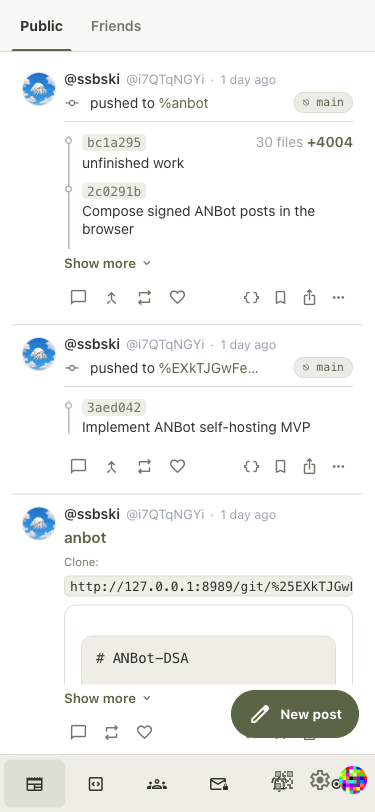
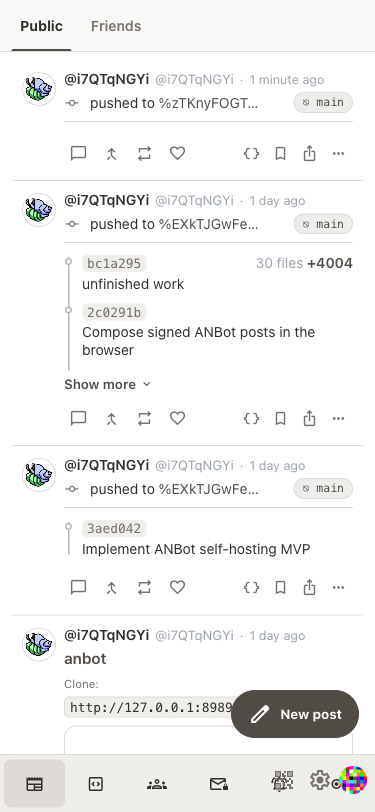
Use warm neutral colors for the Decent workspace

diff --git a/decent/src/decent2-style.css b/decent/src/decent2-style.css
@@ -5,18 +5,18 @@
 :root[data-ssbpro-theme="light"] {
   color-scheme: light;
   /* palette consumed by base.css */
-  --sky-bg: #f8f8f5;
+  --sky-bg: #faf9f7;
   --sky-surface: #ffffff;
-  --sky-surface-soft: #eeeee7;
+  --sky-surface-soft: #f0eeeb;
   --sky-hover: #e9edf2;
-  --sky-border: #ddded4;
+  --sky-border: #dedbd6;
   --sky-border-strong: #b2b8c1;
-  --sky-text: #30342c;
-  --sky-muted: #707568;
+  --sky-text: #302e2b;
+  --sky-muted: #74706b;
   --sky-muted-soft: #9aa2ab;
-  --sky-blue: #596545;
-  --sky-blue-hover: #424d33;
-  --sky-blue-soft: rgba(89, 101, 69, 0.12);
+  --sky-blue: #514b45;
+  --sky-blue-hover: #35312d;
+  --sky-blue-soft: rgba(81, 75, 69, 0.10);
   --sky-green: #46a546;
   --sky-green-soft: rgba(70, 165, 70, 0.12);
   --sky-pink: #c43c35;
@@ -40,18 +40,18 @@
 @media (prefers-color-scheme: dark) {
   :root:not([data-ssbpro-theme="light"]) {
     color-scheme: dark;
-    --sky-bg: #20231c;
-    --sky-surface: #23271f;
-    --sky-surface-soft: #191d17;
+    --sky-bg: #242321;
+    --sky-surface: #292826;
+    --sky-surface-soft: #1d1c1a;
     --sky-hover: #313539;
-    --sky-border: #3a4032;
+    --sky-border: #403d39;
     --sky-border-strong: #474c53;
     --sky-text: #e7eaed;
     --sky-muted: #9aa2ac;
     --sky-muted-soft: #6c747e;
-    --sky-blue: #c2cdaa;
-    --sky-blue-hover: #dce5c9;
-    --sky-blue-soft: rgba(194, 205, 170, 0.18);
+    --sky-blue: #e1dcd5;
+    --sky-blue-hover: #f4f0eb;
+    --sky-blue-soft: rgba(225, 220, 213, 0.12);
     --sky-green: #5bbf6a;
     --sky-green-soft: rgba(91, 191, 106, 0.16);
     --sky-pink: #e6857d;
@@ -74,18 +74,18 @@
  * the OS preference. Mirrors the @media block above. */
 :root[data-ssbpro-theme="dark"] {
   color-scheme: dark;
-  --sky-bg: #20231c;
-  --sky-surface: #23271f;
-  --sky-surface-soft: #191d17;
+  --sky-bg: #242321;
+  --sky-surface: #292826;
+  --sky-surface-soft: #1d1c1a;
   --sky-hover: #313539;
-  --sky-border: #3a4032;
+  --sky-border: #403d39;
   --sky-border-strong: #474c53;
   --sky-text: #e7eaed;
   --sky-muted: #9aa2ac;
   --sky-muted-soft: #6c747e;
-  --sky-blue: #c2cdaa;
-  --sky-blue-hover: #dce5c9;
-  --sky-blue-soft: rgba(194, 205, 170, 0.18);
+  --sky-blue: #e1dcd5;
+  --sky-blue-hover: #f4f0eb;
+  --sky-blue-soft: rgba(225, 220, 213, 0.12);
   --sky-green: #5bbf6a;
   --sky-green-soft: rgba(91, 191, 106, 0.16);
   --sky-pink: #e6857d;

diff --git a/design/decent-harness/README.md b/design/decent-harness/README.md
@@ -2,7 +2,7 @@
 
 The before directory captures the running app before this iteration, at 1440px and 375px on decent2, ssbski, and ssbpro. The after directory records the new default workspace, repository views, dark mode, and compatibility skins.
 
-The default decent2 skin takes the ANBot study's warm surfaces, olive accent, persistent navigation, and quiet borders. Repositories become primary navigation on all skins. Decent keeps signed-feed activity, private messages, notifications, keys, working post actions, and its existing Git browser. Phones use bottom navigation and retain connect, settings, and profile access in the header.
+The default decent2 skin takes the ANBot study's warm surfaces, charcoal accent, persistent navigation, and quiet borders. Repositories become primary navigation on all skins. Decent keeps signed-feed activity, private messages, notifications, keys, working post actions, and its existing Git browser. Phones use bottom navigation and retain connect, settings, and profile access in the header.
 
 The default skin hides the discovery column and redundant large branding to give the workspace more room. Discovery itself works; it remains available in the other skins. The inspected post action controls have handlers (raw view, local save, copy link, more menu), so they were retained. No illustrative ANBot sync indicators or pretend coding controls were introduced.
 
